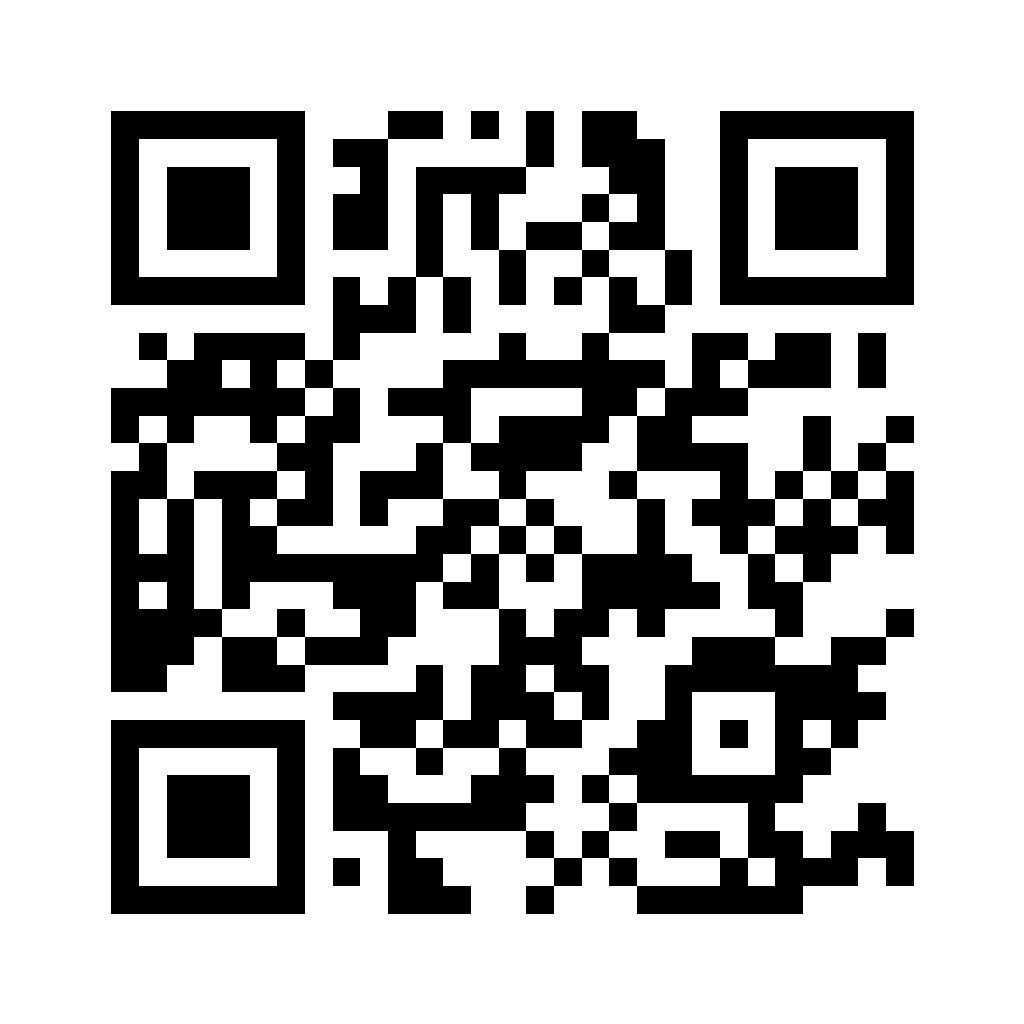
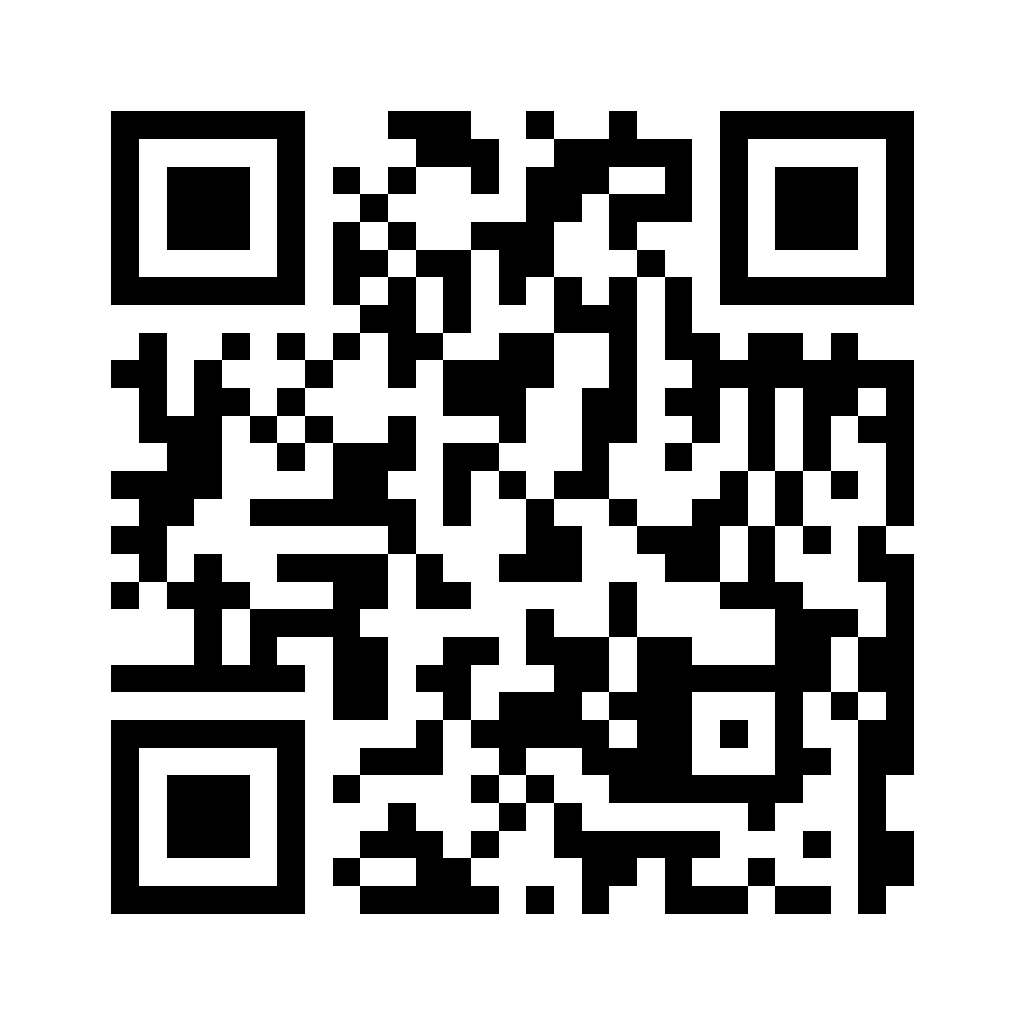
Configure for the nmrevent.com domain and fix hosting claims
- Domain nmrevent.com (the registered domain with the company mailbox):
  site URL, secrets generator, Caddy www -> apex redirect, QR code now
  points to https://nmrevent.com/profile
- scripts/check-dns.mjs: deploy.sh refuses to start Caddy until the domain
  and www resolve to the server (avoids failed ACME attempts)
- HSTS reduced to max-age=31536000 (no includeSubDomains/preload, which
  are hard to undo and could affect mail subdomains)
- The server is a Hostinger VPS in Europe, so the footer and privacy policy
  no longer claim hosting inside Saudi Arabia

Changed region(s): [[0.0938, 0.0938, 0.9062, 0.9062]]

diff --git a/src/app/privacy/page.tsx b/src/app/privacy/page.tsx
@@ -8,7 +8,7 @@ export const metadata: Metadata = { title: "سياسة الخصوصية", altern
 const sections = [
   { h: "البيانات التي نجمعها", p: "الاسم، الجهة، البريد الإلكتروني، رقم الجوال، وتفاصيل الفعالية التي تدخلها في نموذج طلب العرض." },
   { h: "الغرض من المعالجة", p: "إعداد عرض السعر، التواصل معك بخصوص طلبك، وتحسين خدماتنا. لا نبيع بياناتك لأي طرف ثالث." },
-  { h: "مكان الحفظ", p: "تُحفظ البيانات على خوادم داخل المملكة العربية السعودية التزامًا بنظام حماية البيانات الشخصية (PDPL)، وتُنقل مشفرة عبر SSL." },
+  { h: "مكان الحفظ", p: "تُحفظ البيانات على خوادم لدى مزوّد استضافة خارج المملكة العربية السعودية (في أوروبا)، وتُنقل مشفّرة عبر HTTPS. نطبّق ضوابط الوصول ونحذف طلباتك المنتهية تلقائيًا بعد مدة الاحتفاظ، ونراعي متطلبات نظام حماية البيانات الشخصية في المملكة عند نقل البيانات خارجها." },
   { h: "حقوقك", p: `يحق لك طلب الاطلاع على بياناتك أو تصحيحها أو حذفها في أي وقت عبر ${site.email}.` },
 ];
 

diff --git a/src/lib/deploy-env.test.ts b/src/lib/deploy-env.test.ts
@@ -25,6 +25,14 @@ describe("إعدادات النشر", () => {
     expect(new URL(example.DATABASE_URL).password).toBe(example.POSTGRES_PASSWORD);
   });
 
+  it("Caddy يخدم النطاق ويحوّل www إليه", () => {
+    const caddy = readFileSync(join(process.cwd(), "deploy", "Caddyfile"), "utf8");
+    expect(caddy).toMatch(/\{\$SITE_ADDRESS::80\}/);
+    expect(caddy).toMatch(/redir https:\/\/\{\$SITE_ADDRESS:localhost\}\{uri\} permanent/);
+    expect(example.SITE_ADDRESS).toBe("nmrevent.com");
+    expect(example.WWW_ADDRESS).toBe(`www.${example.SITE_ADDRESS}`);
+  });
+
   it("compose يشترط الأسرار ولا ينشر منفذ القاعدة", () => {
     const compose = readFileSync(join(process.cwd(), "deploy", "docker-compose.yml"), "utf8");
     expect(compose).toMatch(/CRON_SECRET: \$\{CRON_SECRET:\?/);

diff --git a/src/content/site.ts b/src/content/site.ts
@@ -4,7 +4,7 @@ export const site = {
   tagline: "نصنع فعاليات تليق بطموح المملكة",
   description:
     "منصة متكاملة لتصميم وإدارة الفعاليات والمؤتمرات والمعارض في المملكة العربية السعودية: إبداع فني، حلول رقمية تفاعلية، إدارة حشود ولوجستيات، وكوادر ميدانية مؤهلة.",
-  url: process.env.NEXT_PUBLIC_SITE_URL ?? "https://nmrievent.com",
+  url: process.env.NEXT_PUBLIC_SITE_URL ?? "https://nmrevent.com",
   /** رقم واتساب (دولي بدون +). الافتراضي: الرقم الأول من ملف تعريف الشركة */
   whatsapp: process.env.NEXT_PUBLIC_WHATSAPP_NUMBER ?? "966547047635",
   email: "info@nmrevent.com",

diff --git a/src/components/Footer.tsx b/src/components/Footer.tsx
@@ -46,7 +46,7 @@ export function Footer() {
           <div className="flex gap-5">
             <Link href="/privacy" className="hover:text-brand">سياسة الخصوصية</Link>
             <Link href="/app" className="hover:text-brand">التطبيق وملف التعريف</Link>
-            <span>البيانات مستضافة داخل المملكة وفق نظام حماية البيانات الشخصية</span>
+            <span>نلتزم بحماية بياناتك الشخصية</span>
           </div>
         </div>
       </div>

diff --git a/next.config.ts b/next.config.ts
@@ -26,7 +26,7 @@ const securityHeaders = [
   { key: "X-Frame-Options", value: "SAMEORIGIN" },
   { key: "Referrer-Policy", value: "strict-origin-when-cross-origin" },
   { key: "Permissions-Policy", value: "camera=(), microphone=(), geolocation=()" },
-  { key: "Strict-Transport-Security", value: "max-age=63072000; includeSubDomains; preload" },
+  { key: "Strict-Transport-Security", value: "max-age=31536000" },
 ];
 
 const nextConfig: NextConfig = {

diff --git a/README.md b/README.md
@@ -57,20 +57,25 @@ npm run build && npm start   # نسخة الإنتاج
 
 الفهرس والنص البديل لكل صورة في `src/content/gallery.ts`؛ أضف صورة جديدة بوضع ملف WebP في المجلد المناسب وسطر في ذلك الملف.
 
-## النشر على خادم (Docker Compose)
+## النشر على خادم (Docker Compose) — النطاق nmrevent.com
 
-يعمل على أي خادم Ubuntu/Debian: التطبيق + PostgreSQL + Caddy (وكيل عكسي، HTTPS تلقائي عند ربط نطاق) + مهمة cron داخلية. القاعدة والتطبيق غير منشورين خارج شبكة Docker؛ المنفذان 80/443 فقط.
+يعمل على أي خادم Ubuntu/Debian: التطبيق + PostgreSQL + Caddy (وكيل عكسي، HTTPS تلقائي وتحويل www) + مهمة cron داخلية. القاعدة والتطبيق غير منشورين خارج شبكة Docker؛ المنفذان 80/443 فقط.
+
+**1) سجلات DNS** (لوحة النطاق، Hostinger): سجلا A لـ `@` و`www` إلى `187.126.25.41`، واحذف سجلات الركن القديمة (`2.57.91.91`) وأي سجل AAAA. **أبقِ سجلات MX وTXT (SPF)** فهي للبريد.
+
+**2) الأوامر** (Git Bash داخل المشروع):
 
 ```bash
-node scripts/make-secrets.mjs http://187.126.25.41   # يولّد deploy/.env.production بأسرار عشوائية (لا يُرفع إلى git)
+node scripts/make-secrets.mjs https://nmrevent.com   # مرة واحدة: يولّد deploy/.env.production بأسرار عشوائية (خارج git)
 bash scripts/setup-ssh-key.sh                        # مرة واحدة: يثبّت مفتاحك على الخادم (يطلب كلمة سر root مرة واحدة)
-bash scripts/deploy.sh                               # يرفع الأسرار (600) ثم يستنسخ المستودع ويبني ويشغّل ويفحص الصحة
+WAIT_DNS=1 bash scripts/deploy.sh                    # ينتظر انتشار DNS ثم يرفع الأسرار (600) ويستنسخ ويبني ويشغّل ويفحص الصحة
 ```
 
+- **حماية من فشل الشهادة:** `deploy.sh` يتحقق (`scripts/check-dns.mjs`) أن النطاق وwww يشيران إلى الخادم قبل التشغيل؛ تجاوزه بـ `SKIP_DNS_CHECK=1`.
 - **الأسرار:** `scripts/push-secrets.sh` يرفع `deploy/.env.production` إلى `/opt/nmrievent/.env` بصلاحيات 600. كلمة سر القاعدة تُطبَّق عند أول إنشاء فقط، فلا تُعد توليد الملف (`--force`) على خادم فيه بيانات.
-- **ربط نطاق:** غيّر `NEXT_PUBLIC_SITE_URL` إلى `https://نطاقك` و`SITE_ADDRESS` إلى النطاق نفسه في الملف، ووجّه سجل A إلى الخادم، ثم أعد `bash scripts/deploy.sh` (القيمة الأولى تُدمج وقت البناء). وأعد توليد رمز QR (`npm run assets https://نطاقك/profile`).
-- **عرض الطلبات:** `ssh root@IP "cd /opt/nmrievent/repo && docker compose --env-file /opt/nmrievent/.env -f deploy/docker-compose.yml exec db psql -U nmr -d nmr -c 'select reference,status,created_at,payload->>'organization' from rfq_leads order by created_at desc limit 20'"`
-- **عبر IP بدون نطاق:** يعمل الموقع على HTTP؛ الـ Service Worker (وضع التطبيق/العمل بدون إنترنت) يتطلب HTTPS فيتعطل حتى ربط النطاق.
+- **رمز QR:** `public/qr/profile-qr.png` يشير إلى `https://nmrevent.com/profile`؛ أعد توليده بـ `npm run assets https://نطاقك/profile` إن تغيّر النطاق.
+- **عرض الطلبات:** `ssh root@187.126.25.41 "cd /opt/nmrievent/repo && docker compose --env-file /opt/nmrievent/.env -f deploy/docker-compose.yml exec db psql -U nmr -d nmr -c 'select reference,status,created_at from rfq_leads order by created_at desc limit 20'"`
+- **موقع الخادم:** الخادم لدى Hostinger في أوروبا (لا داخل المملكة)، ونص سياسة الخصوصية يذكر ذلك؛ راجعه قانونيًا (نقل البيانات خارج المملكة وفق نظام حماية البيانات الشخصية) أو انقل الاستضافة داخل المملكة.
 
 ## الهوية البصرية
 
